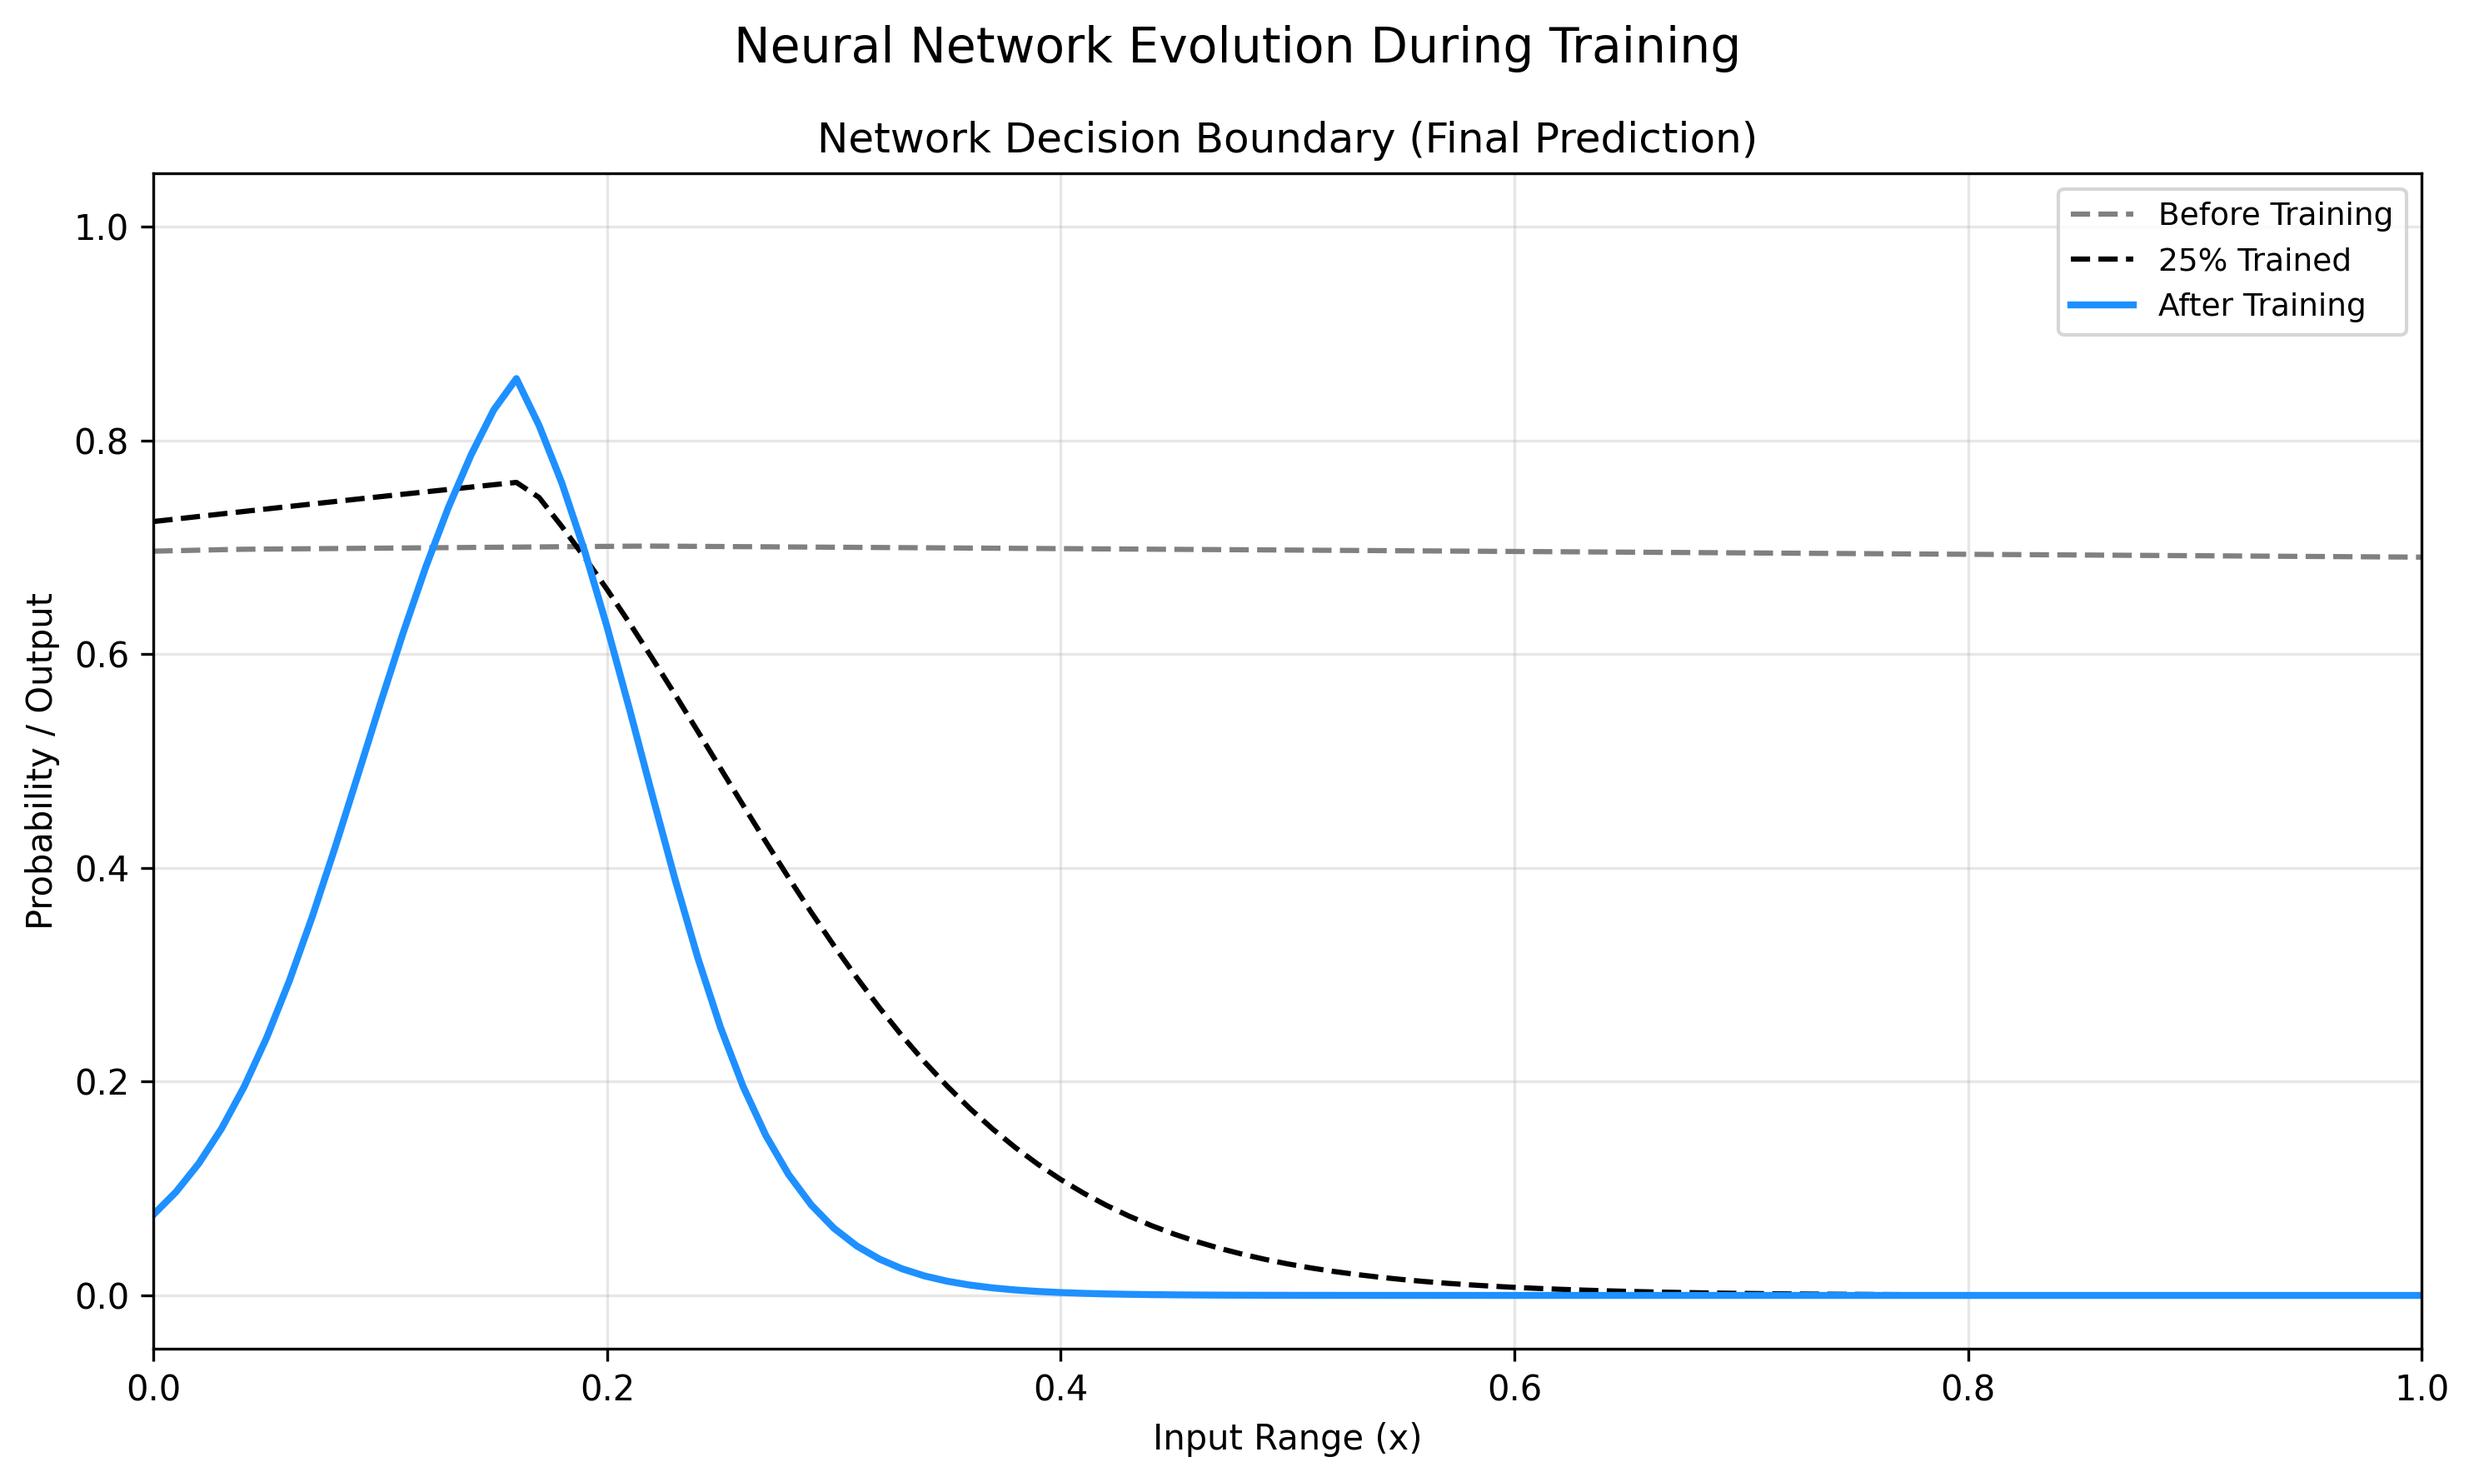
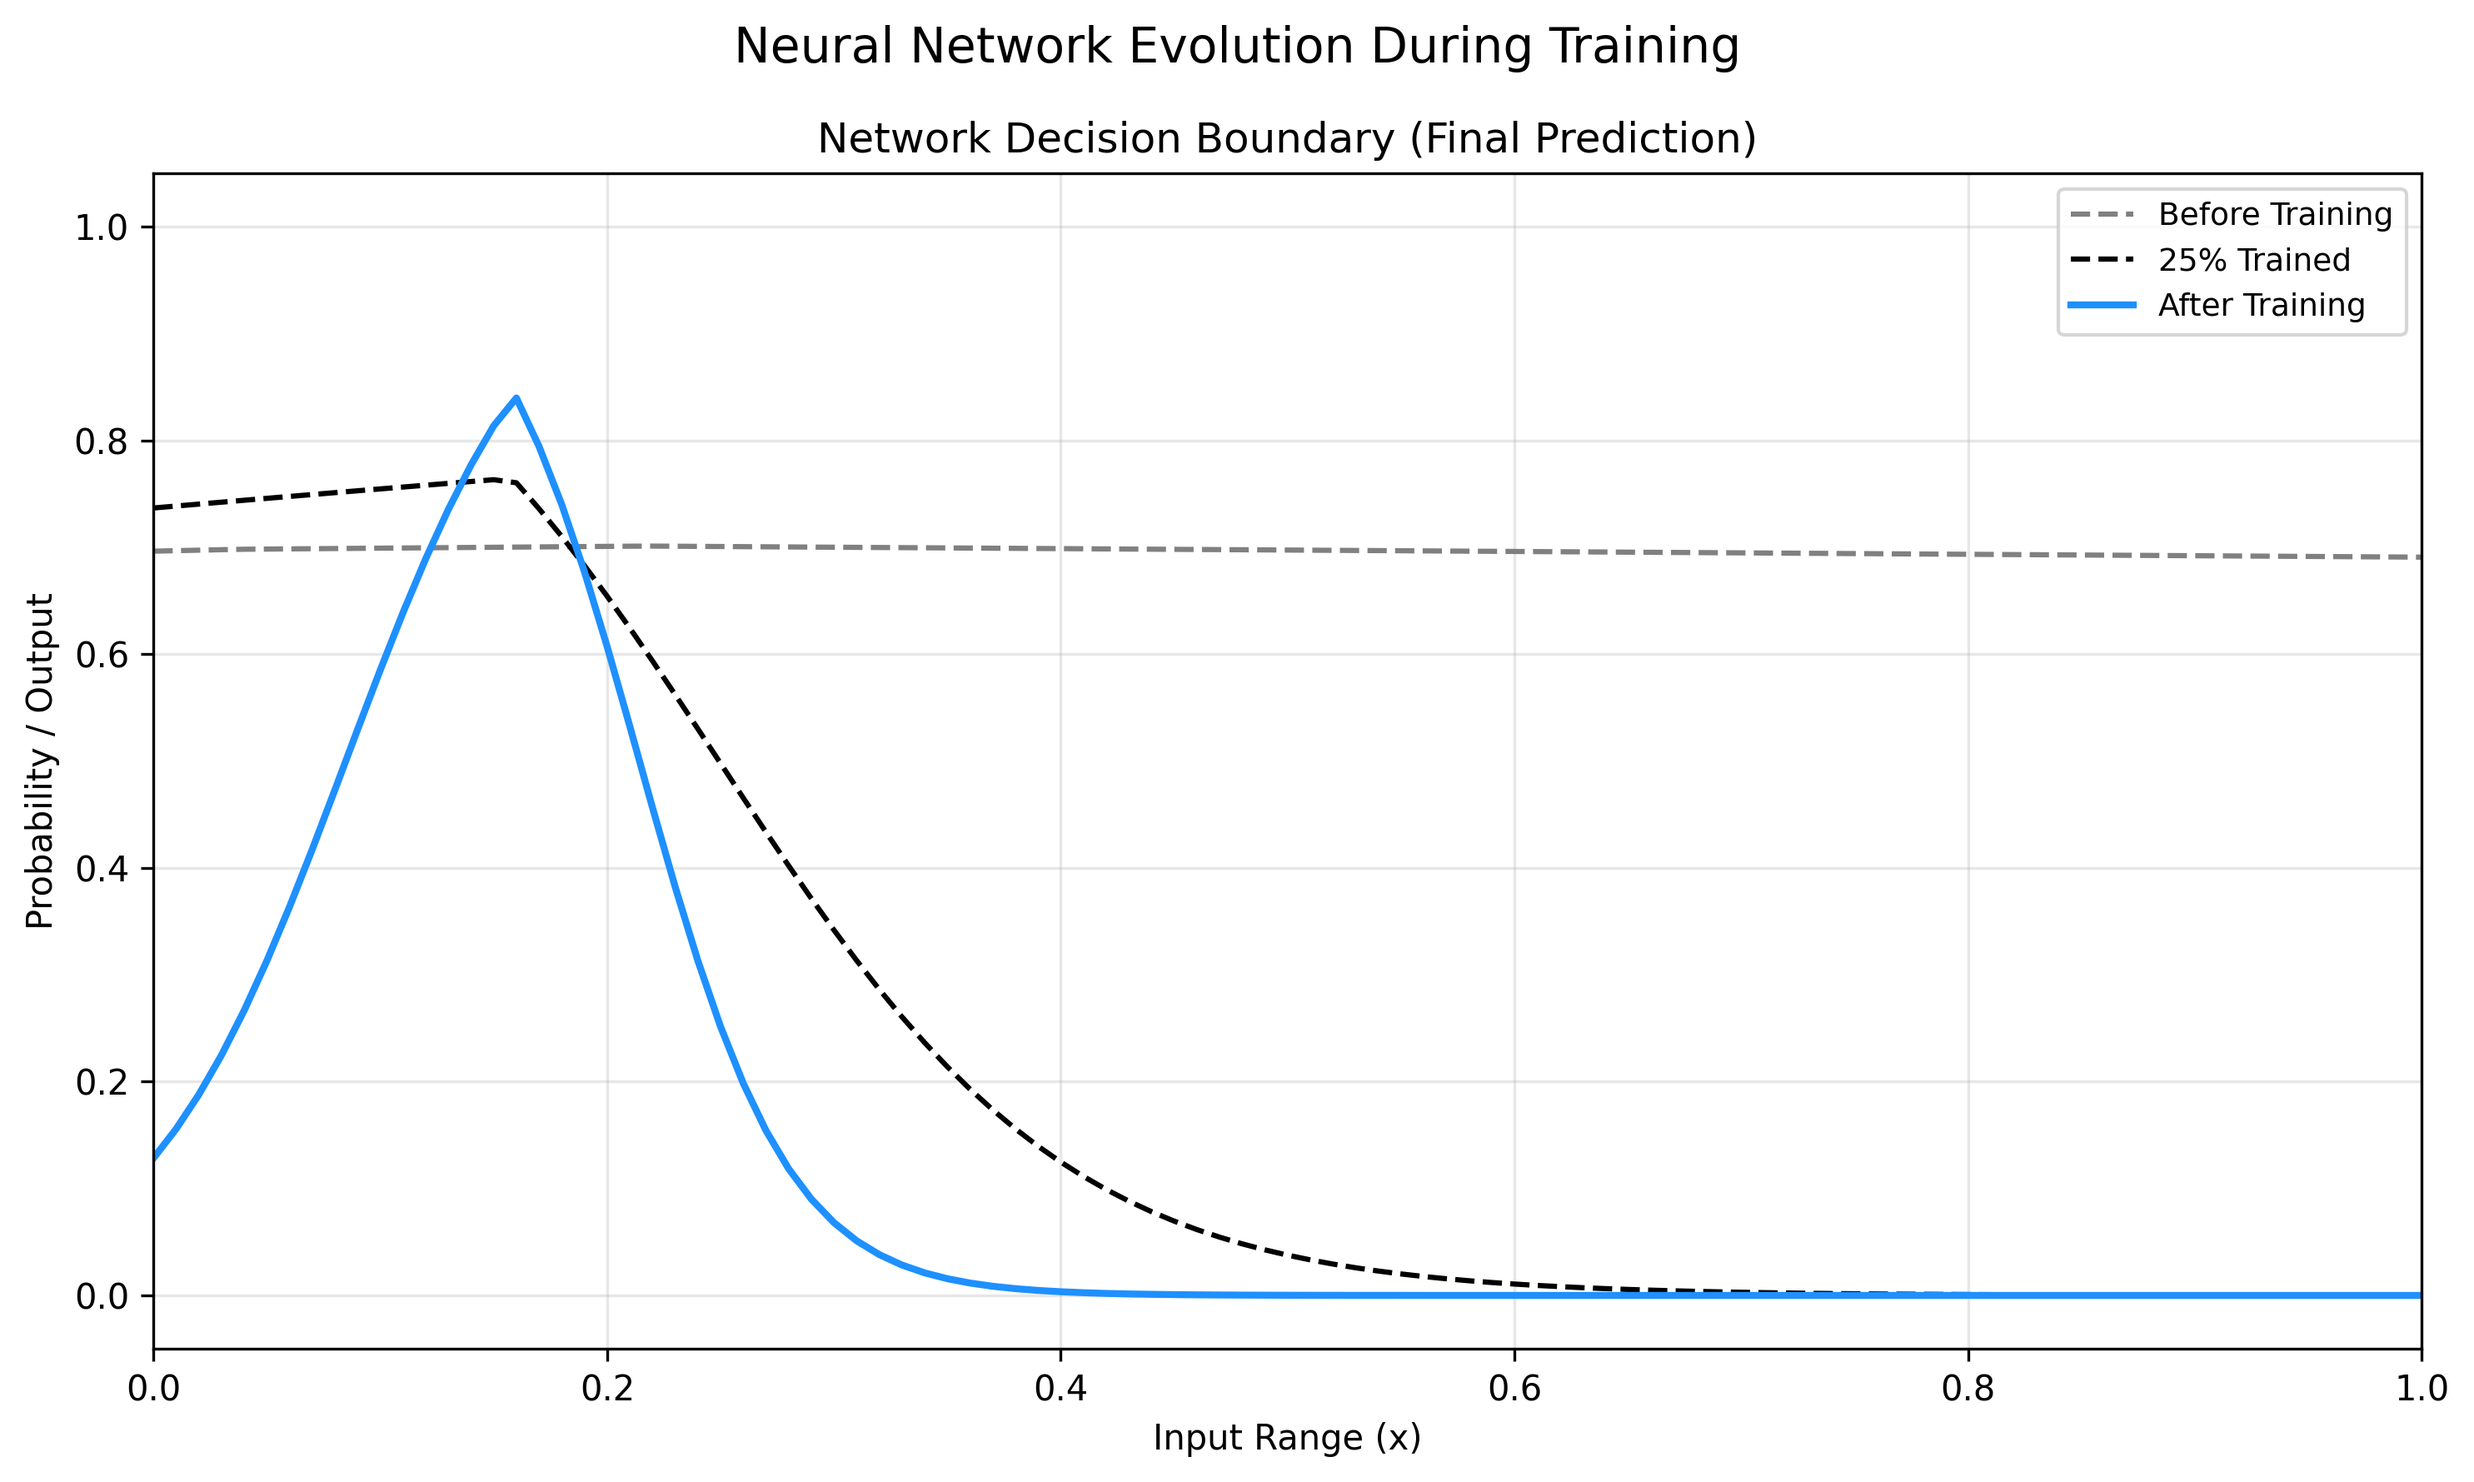
new images

diff --git a/lib/neurons.py b/lib/neurons.py
@@ -38,5 +38,5 @@ def plot_neuron_curves(hidden_size):
 
     fig.suptitle("Hidden Neuron Response Curves: Before vs. After Training", fontsize=14)
     plt.tight_layout()
-    #plt.savefig("assets/decision_boundary.png", dpi=300, bbox_inches="tight")
+    plt.savefig("assets/decision2_boundary.png", dpi=300, bbox_inches="tight")
     plt.show()

diff --git a/lib/outputs.py b/lib/outputs.py
@@ -38,5 +38,5 @@ def plot_output_curves(hidden_size):
 
     fig.suptitle("Output Layer Response Curves: Before vs. After Training", fontsize=14)
     plt.tight_layout()
-    #plt.savefig("assets/output_boundary.png", dpi=300, bbox_inches="tight")
+    plt.savefig("assets/output2_boundary.png", dpi=300, bbox_inches="tight")
     plt.show()
